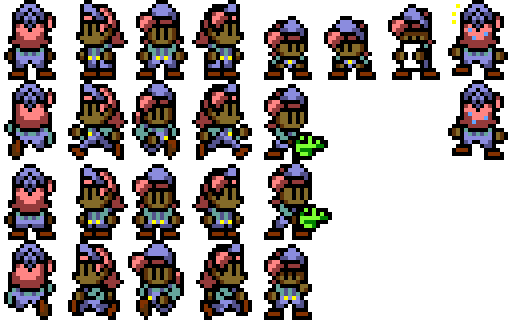
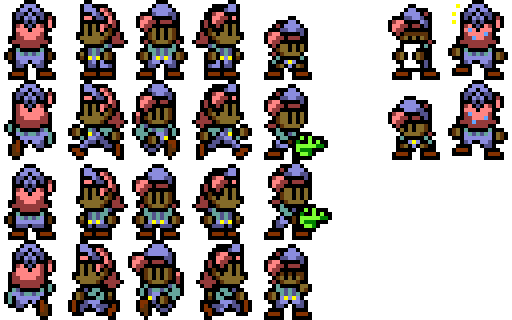
lol oops

Changed region(s): [[0.75, 0.2812, 0.875, 0.5], [0.625, 0.0312, 0.75, 0.25]]

diff --git a/js/gamedata/cutscenes.js b/js/gamedata/cutscenes.js
@@ -500,14 +500,14 @@ var scripts = {
 	"falcon0": "_CUSTOM:BIRDSONG.OGG&pl_SETDIR:0&_SLEEP:1000",
 	"falcon1": "pl_SETDIR:1&_CUSTOM:ENTERTHEBIRD",
 	"falcon2": "_SLEEP:500",
-	"falcon3": "_PLANIM:5,0,1000",
+	"falcon3": "_PLANIM:6,1,1000",
 	"falcon4": "bird_SHIFTY:0&_CUSTOM:PLAYERREAD&_TEXT:falconMsg0",
 	"falcon5": "_CUSTOM:GETFALCONTEXT",
 	"falcon6": "?[{\"q\":\"worldmap.mapName === 'hq_1'\",\"v\":7},{\"q\":\"true\",\"v\":9}]",
 	"falcon7": "_CUSTOM:EXITTHEBIRDFINAL",
 	"falcon8": "_CLEARTARGET&bird_SETTARGET&_CLEARTARGET&_END&_QUIT",
 	"falcon9": "_CUSTOM:FALCONSELECT",
-	"falcon10": "_PLANIM:5,0,1000",
+	"falcon10": "_PLANIM:6,1,1000",
 	"falcon11": "bird_SHIFTY:1&_SLEEP:500",
 	"falcon12": "_CUSTOM:EXITTHEBIRD1",
 	"falcon13": "pl_SETDIR:3&_CLEARTARGET&_CUSTOM:EXITTHEBIRD2",

diff --git a/js/worldmap/cutsceneParser.js b/js/worldmap/cutsceneParser.js
@@ -165,7 +165,7 @@ var CommandParser = {
         ];
         worldmap.writeText(text, args, false, formatting);
     },
-    Parse_BasicPlayerFrame: function(args) {
+    Parse_BasicPlayerFrame: function(args) { // sx, sy, time
         worldmap.waitForAnimation = true;
         var sx = parseInt(args[0]);
         var sy = parseInt(args[1]);
